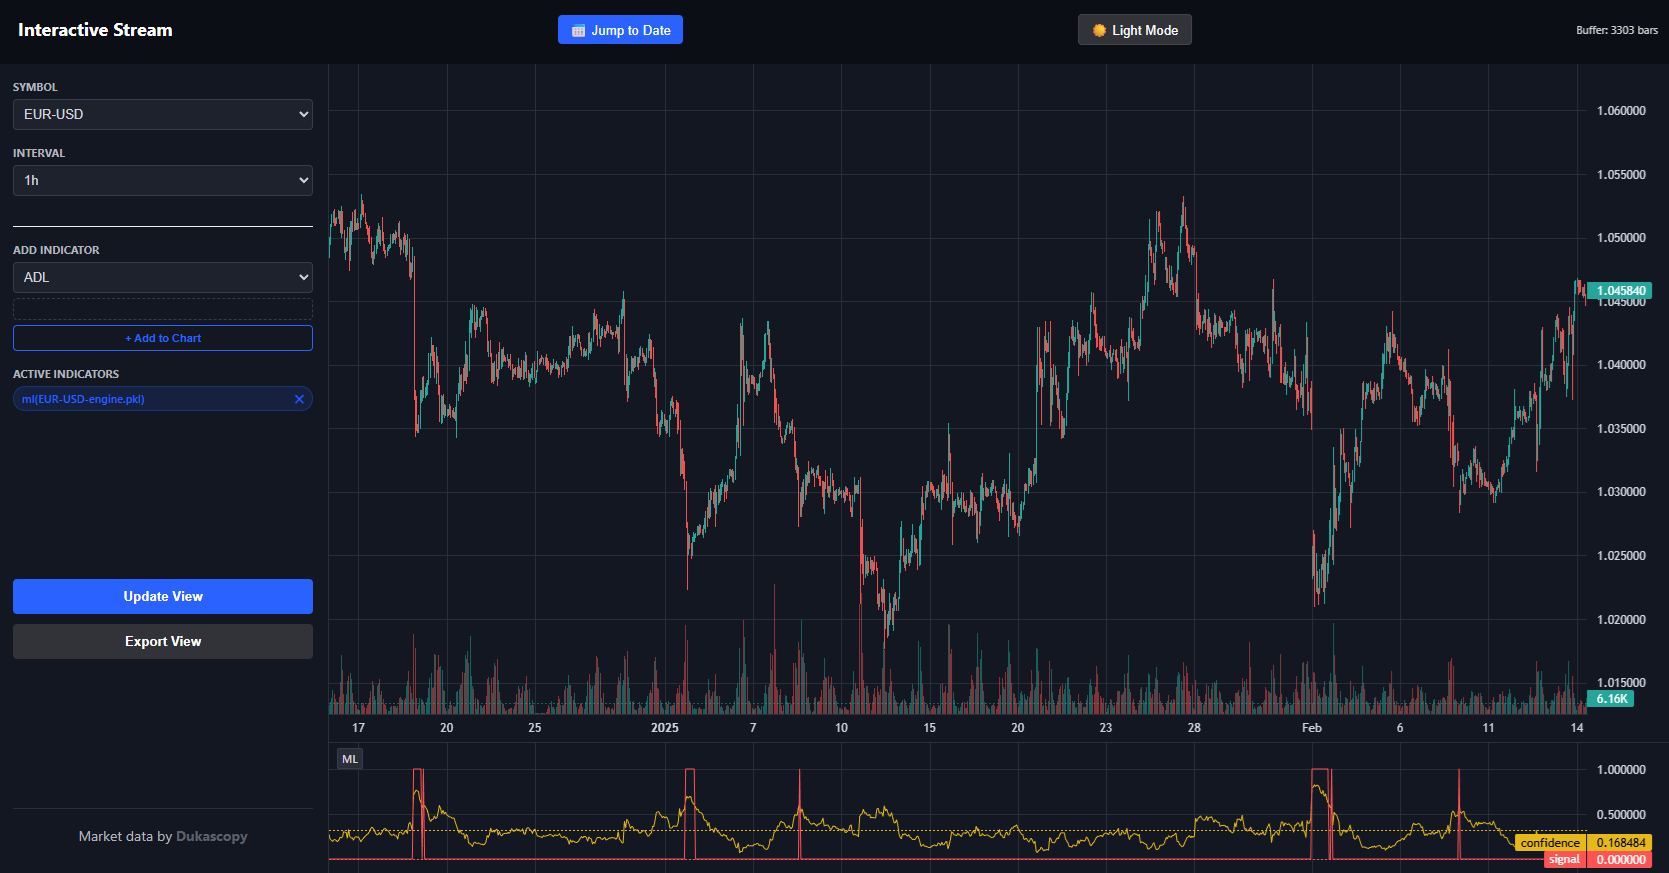
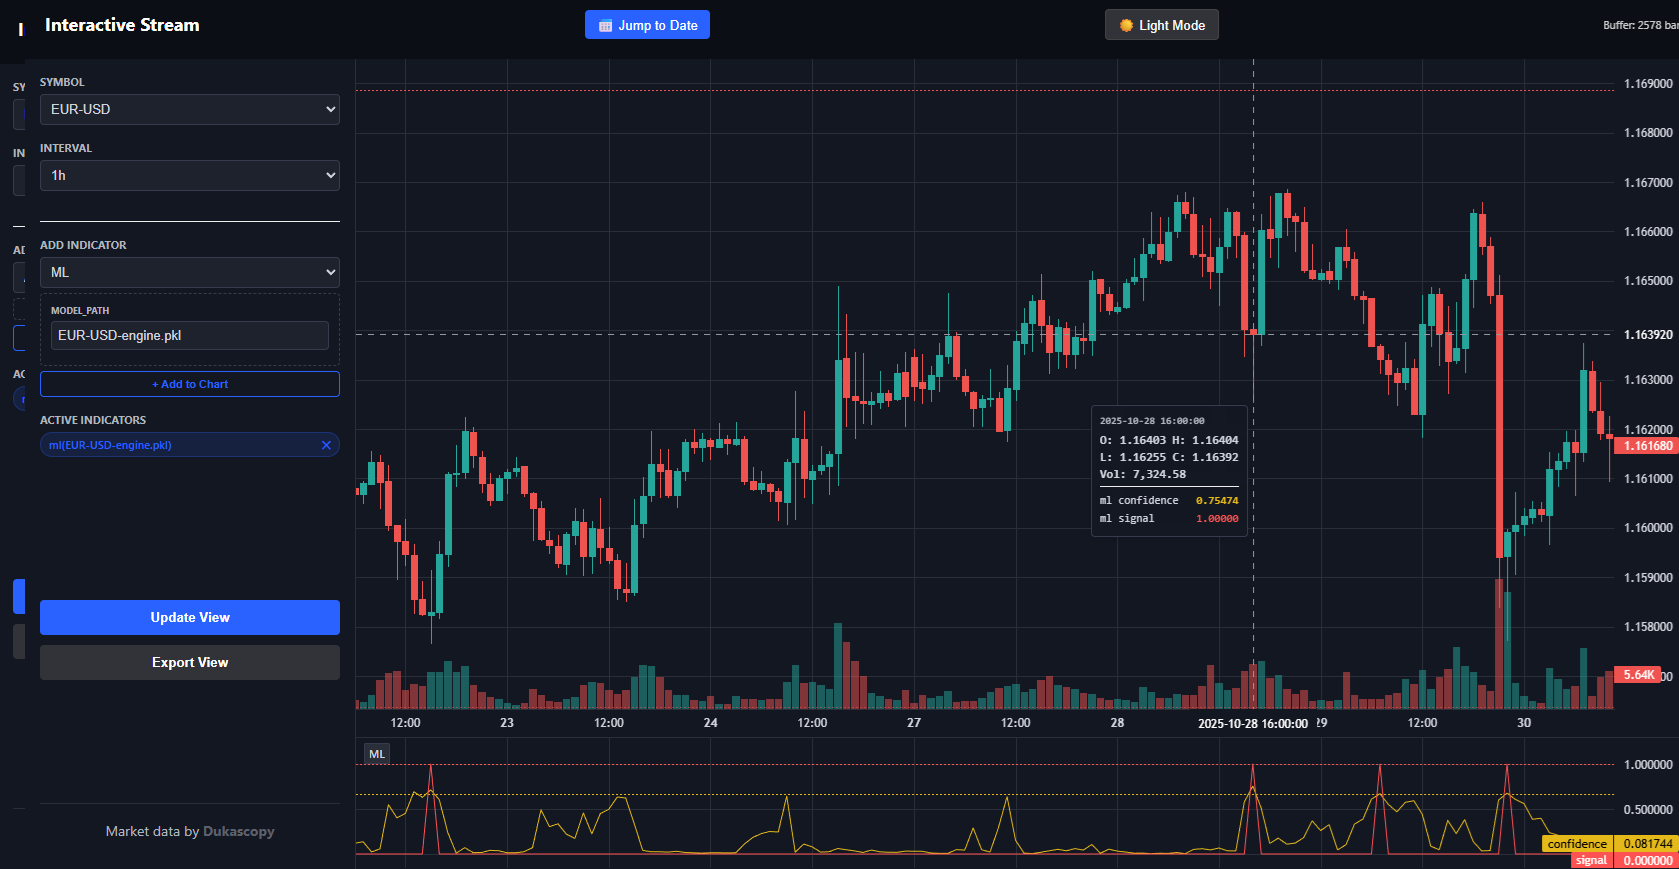
docs(ml): tests

diff --git a/dukascopy/examples/mltrain.py b/dukascopy/examples/mltrain.py
@@ -8,11 +8,12 @@ class BpMarketsTrainer:
         self.indicators = "atr(14):sma(50):rsi(14)" 
         
         # STANDARD RANDOM FOREST
-        # Robust, hard to break, proven for financial time-series.
-        # max_depth=8 prevents overfitting (memorizing noise).
+        # This is the industry standard for classification.
+        # n_estimators=200: Uses 200 "brains" to vote.
+        # max_depth=10: Enough depth to see patterns, not enough to memorize noise.
         self.model = RandomForestClassifier(
             n_estimators=200,
-            max_depth=8, 
+            max_depth=10, 
             class_weight='balanced',
             random_state=42,
             n_jobs=-1 
@@ -32,26 +33,26 @@ class BpMarketsTrainer:
         open_p = np.array(res['open'])
         low = np.array(res['low'])
         
-        # --- ROBUST FEATURES ---
-        # 1. Trend Deviation (Value: -0.05 to 0.05)
+        # --- ROBUST FEATURES (Zero-Bias Math) ---
+        # 1. Trend Deviation (Where are we relative to the average?)
         dist_50 = (close - np.array(res['sma_50'])) / close
         
-        # 2. RSI Normalized (Value: 0.0 to 1.0)
+        # 2. RSI Normalized (0.0 to 1.0)
         rsi_norm = np.array(res['rsi_14']) / 100.0
         
-        # 3. Volatility Ratio (Value: 0.001 to 0.005)
+        # 3. Volatility Ratio (How big are the moves?)
         atr = np.array(res['atr_14'])
         vol_ratio = atr / close
         
-        # 4. Candle Body Strength (Value: -2.0 to 2.0)
-        # Did we close higher than we opened? (Green Candle)
+        # 4. Candle Body Strength (Green or Red?)
+        # (Close - Open) / ATR
         safe_atr = np.where(atr == 0, 0.00001, atr)
         body_strength = (close - open_p) / safe_atr
 
         X = np.column_stack([dist_50, rsi_norm, vol_ratio, body_strength])
         X = np.nan_to_num(X)
 
-        # --- STANDARD LABELS ---
+        # --- LABELS ---
         y = np.zeros(len(close))
         window = 12 
         
@@ -60,7 +61,7 @@ class BpMarketsTrainer:
             local_min = np.min(low[i-window : i+window+1])
             is_absolute_low = (current_low == local_min)
             
-            # Standard Bounce: 0.5 ATR (Realistic target)
+            # Standard Bounce: 0.5 ATR (Realistic, not impossible)
             future_price = close[i+12]
             required_bounce = 0.5 * atr[i]
             did_bounce = future_price > (current_low + required_bounce)
@@ -93,16 +94,17 @@ class BpMarketsTrainer:
         X_train = np.vstack(all_X)
         y_train = np.concatenate(all_y)
         
-        print(f"Training Standard Random Forest on {len(y_train)} bars...")
+        print(f"Training Random Forest on {len(y_train)} bars...")
         print(f"Bottoms found: {int(np.sum(y_train))}")
         
         self.model.fit(X_train, y_train)
         
+        # Save as standard 'engine.pkl'
         filename = f"{self.symbol}-engine.pkl"
         save_path = os.path.join(os.getcwd(), filename)
         joblib.dump(self.model, save_path)
         print(f"SAVED TO: {save_path}")
 
 trainer = BpMarketsTrainer("EUR-USD", "1h")
-# Train on recent history (2018-2026) for best relevance
+# Train on recent history (2018-2026)
 trainer.train_loop(start_ms=1514764800000, end_ms=1768880340000)

diff --git a/dukascopy/examples/mlind.py b/dukascopy/examples/mlind.py
@@ -1,0 +1,86 @@
+import pandas as pd, numpy as np, joblib, os
+from typing import Dict, Any, List
+
+_ENGINE_CACHE = {}
+
+def description() -> str:
+    return "ML-FINAL-FIX"
+
+def meta() -> Dict:
+    return {"author": "Google Gemini", "version": 100.0, "verified": 1, "panel": 1}
+
+def warmup_count(options: Dict[str, Any]) -> int:
+    return 50
+
+def position_args(args: List[str]) -> Dict[str, Any]:
+    return {"model_path": args[0] if len(args) > 0 else "EUR-USD-engine.pkl"}
+
+def calculate(df: pd.DataFrame, options: Dict[str, Any]) -> pd.DataFrame:
+    # 1. LOAD MODEL
+    model_name = options.get('model_path', 'EUR-USD-engine.pkl')
+    path = os.path.join(os.getcwd(), model_name)
+    
+    if path not in _ENGINE_CACHE:
+        if os.path.exists(path): 
+            _ENGINE_CACHE[path] = joblib.load(path)
+        else:
+            return pd.DataFrame({'confidence': 0, 'signal': 0}, index=df.index)
+    
+    model = _ENGINE_CACHE[path]
+
+    # 2. INDICATORS (Must match Trainer)
+    sma50 = df['close'].rolling(50).mean()
+    tr = pd.concat([(df['high']-df['low']), (df['high']-df['close'].shift(1)).abs(), (df['low']-df['close'].shift(1)).abs()], axis=1).max(axis=1)
+    atr = tr.ewm(com=13, adjust=False).mean()
+    
+    delta = df['close'].diff()
+    gain = delta.where(delta > 0, 0).ewm(com=13, adjust=False).mean()
+    loss = (-delta.where(delta < 0, 0)).ewm(com=13, adjust=False).mean()
+    rsi = 100 - (100 / (1 + (gain / loss.replace(0, np.nan))))
+
+    # 3. FEATURES (Zero-Bias Math)
+    dist_50 = (df['close'] - sma50) / df['close']
+    rsi_norm = rsi / 100.0
+    vol_ratio = atr / df['close']
+    
+    safe_atr = atr.replace(0, 0.00001)
+    body_strength = (df['close'] - df['open']) / safe_atr
+
+    X = np.column_stack([
+        dist_50.fillna(0), 
+        rsi_norm.fillna(0), 
+        vol_ratio.fillna(0),
+        body_strength.fillna(0)
+    ])
+    
+    # 4. PREDICT
+    probs = model.predict_proba(X) 
+    class_map = {c: i for i, c in enumerate(model.classes_)}
+    idx_bottom = class_map.get(1)
+
+    confidence = np.zeros(len(df))
+    signal = np.zeros(len(df))
+
+    if idx_bottom is not None:
+        confidence = probs[:, idx_bottom]
+        
+        # 5. FINAL TRIGGER LOGIC
+        # We combine AI Intelligence with Traditional Safety
+        # - AI Confidence > 65%
+        # - RSI < 45 (Must be oversold)
+        # - Body Strength > -0.5 (Must not be a massive crashing red candle)
+        
+        signal[
+            (confidence > 0.65) & 
+            (rsi < 45) & 
+            (body_strength > -0.5)
+        ] = 1
+
+    mask = df['close'].rolling(50).count() < 50
+    confidence[mask] = 0
+    signal[mask] = 0
+
+    return pd.DataFrame({
+        'confidence': confidence, 
+        'signal': signal
+    }, index=df.index)
